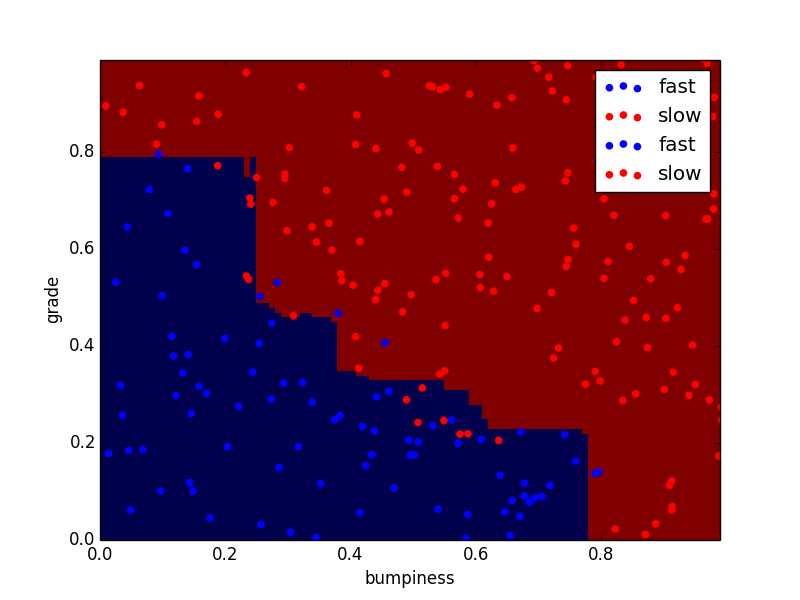
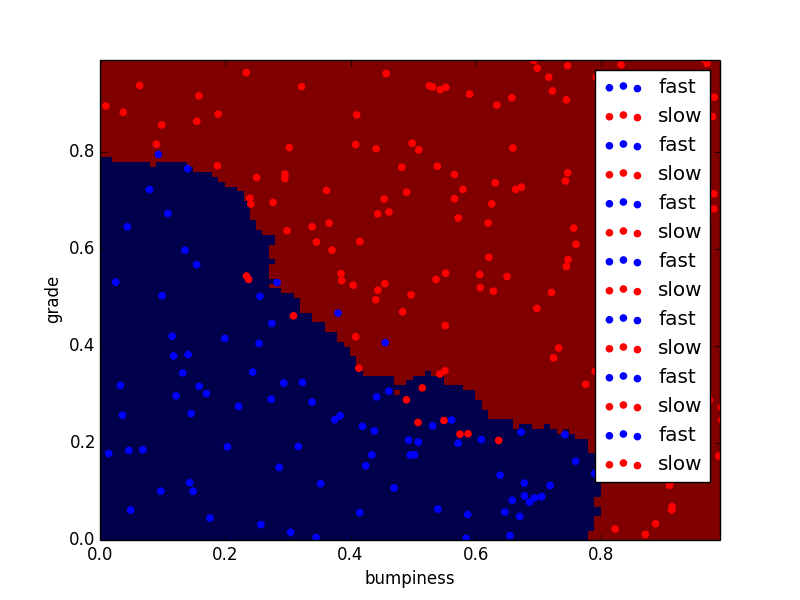
compare algorithm score
Compare the accuracy of Knn, Naive Bayes, Ada Boost, RandomForest and
SVM

Changed region(s): [[0.7188, 0.3, 0.9062, 0.9], [0.125, 0.24, 0.4688, 0.63], [0.4688, 0.6, 0.6875, 0.72]]

diff --git a/choose_your_own/your_algorithm.py b/choose_your_own/your_algorithm.py
@@ -33,18 +33,39 @@ plt.ylabel("grade")
 
 from sklearn.ensemble import RandomForestClassifier
 from sklearn.tree     import DecisionTreeClassifier
-#clf = DecisionTreeClassifier()
-clf = RandomForestClassifier(n_estimators = 10, min_samples_split=20)
-clf.fit(features_train, labels_train)
+from sklearn.svm import SVC
+from sklearn.naive_bayes import GaussianNB
+from sklearn.neighbors import KNeighborsClassifier
+from sklearn.ensemble import AdaBoostClassifier
 
-pred = clf.predict(features_test)
+
+#clf = DecisionTreeClassifier()
+#clf = RandomForestClassifier(n_estimators = 10, min_samples_split=20)
+#clf = SVC(C=120000, gamma=1,  kernel="rbf")
+#clf = GaussianNB()
+#clf = AdaBoostClassifier(n_estimators = 100, algorithm ='SAMME')
+#clf = KNeighborsClassifier(n_neighbors=22)
+
+classifiers = [
+	{"name":"Decision Tree", "clf": DecisionTreeClassifier()},
+	{"name":"Random Forest", "clf": RandomForestClassifier(n_estimators = 10, min_samples_split=20)},
+	{"name":"SVM", "clf":SVC(C=120000, gamma=1,  kernel="rbf")},
+	{"name":"Naive Bayes", "clf":GaussianNB()},
+	{"name":"Ada Boost", "clf":AdaBoostClassifier(n_estimators = 100, algorithm ='SAMME')},
+	{"name":"KNN", "clf": KNeighborsClassifier(n_neighbors=22)}
+]
 
 from sklearn.metrics import accuracy_score
-acc = accuracy_score(pred, labels_test)
 
-print "accuracy_score, ", acc
+for algorithm in classifiers:
+	clf = algorithm["clf"]
+	clf.fit(features_train, labels_train)
 
-try:
-    prettyPicture(clf, features_test, labels_test)
-except NameError:
-    pass
+	pred = clf.predict(features_test)
+	acc = accuracy_score(pred, labels_test)
+	print("Accuracy score for %s is %s " %(algorithm["name"], acc))
+
+	try:
+		prettyPicture(clf, features_test, labels_test)
+	except NameError:
+  	 pass
